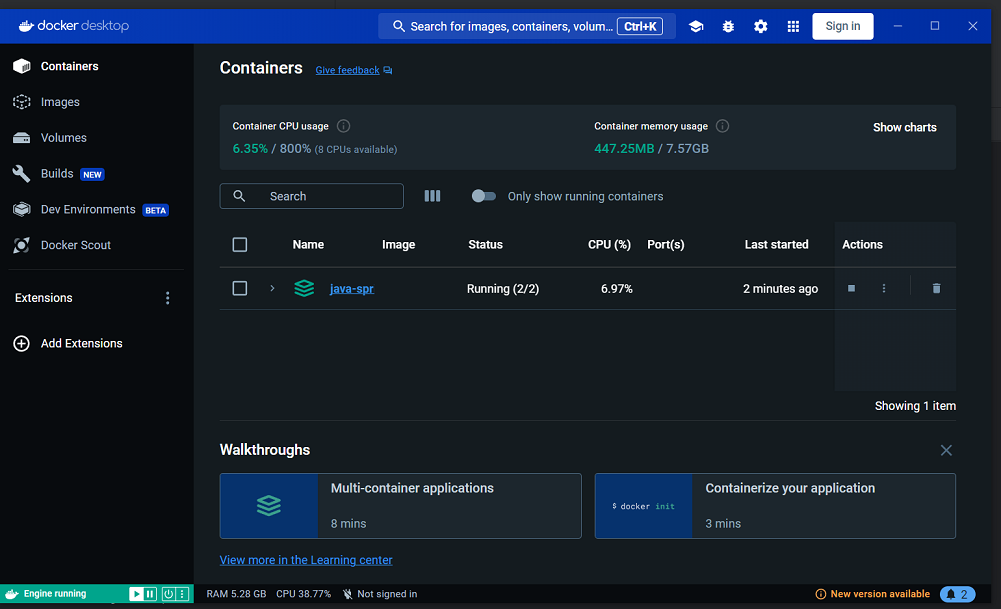
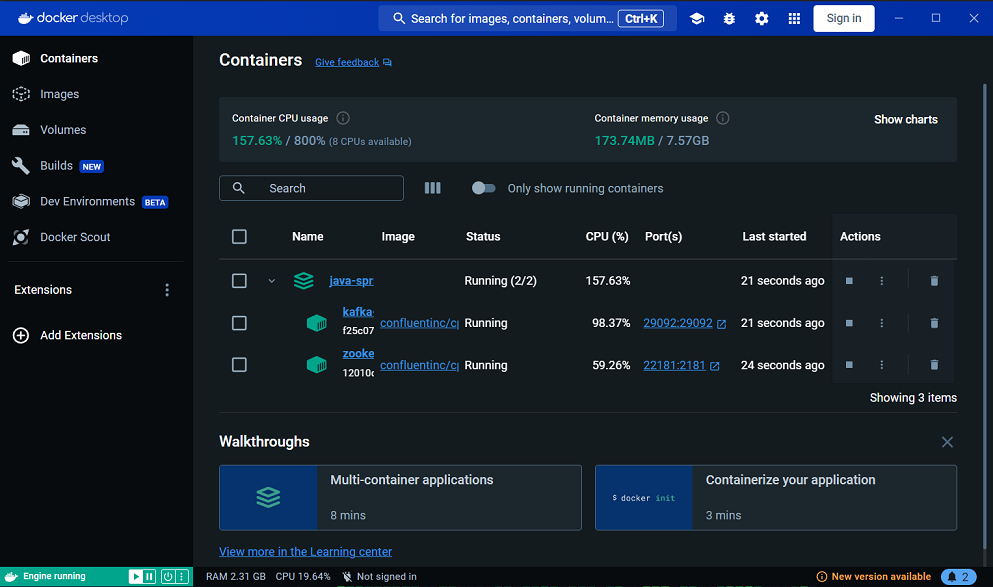
application.propeties - Updated 1

diff --git a/LEIAME.md b/LEIAME.md
@@ -47,6 +47,12 @@ services:
 
 ![Img-03-DockerDesktop](images/Img-03-DockerDesktop.png)
 
+- Alterar `application.propeties` para encontrar o Kafka:
+
+```properties
+spring.kafka.bootstrap-servers=localhost:29092
+```
+
 
 ## Referências
 Spring for Apache Kafka - Quick Tour:

diff --git a/README.md b/README.md
@@ -47,6 +47,12 @@ services:
 
 ![Img-03-DockerDesktop](images/Img-03-DockerDesktop.png)
 
+- Change `application.properties` to find Kafka:
+
+```properties
+spring.kafka.bootstrap-servers=localhost:29092
+```
+
 
 ## References
 Spring for Apache Kafka - Quick Tour:
